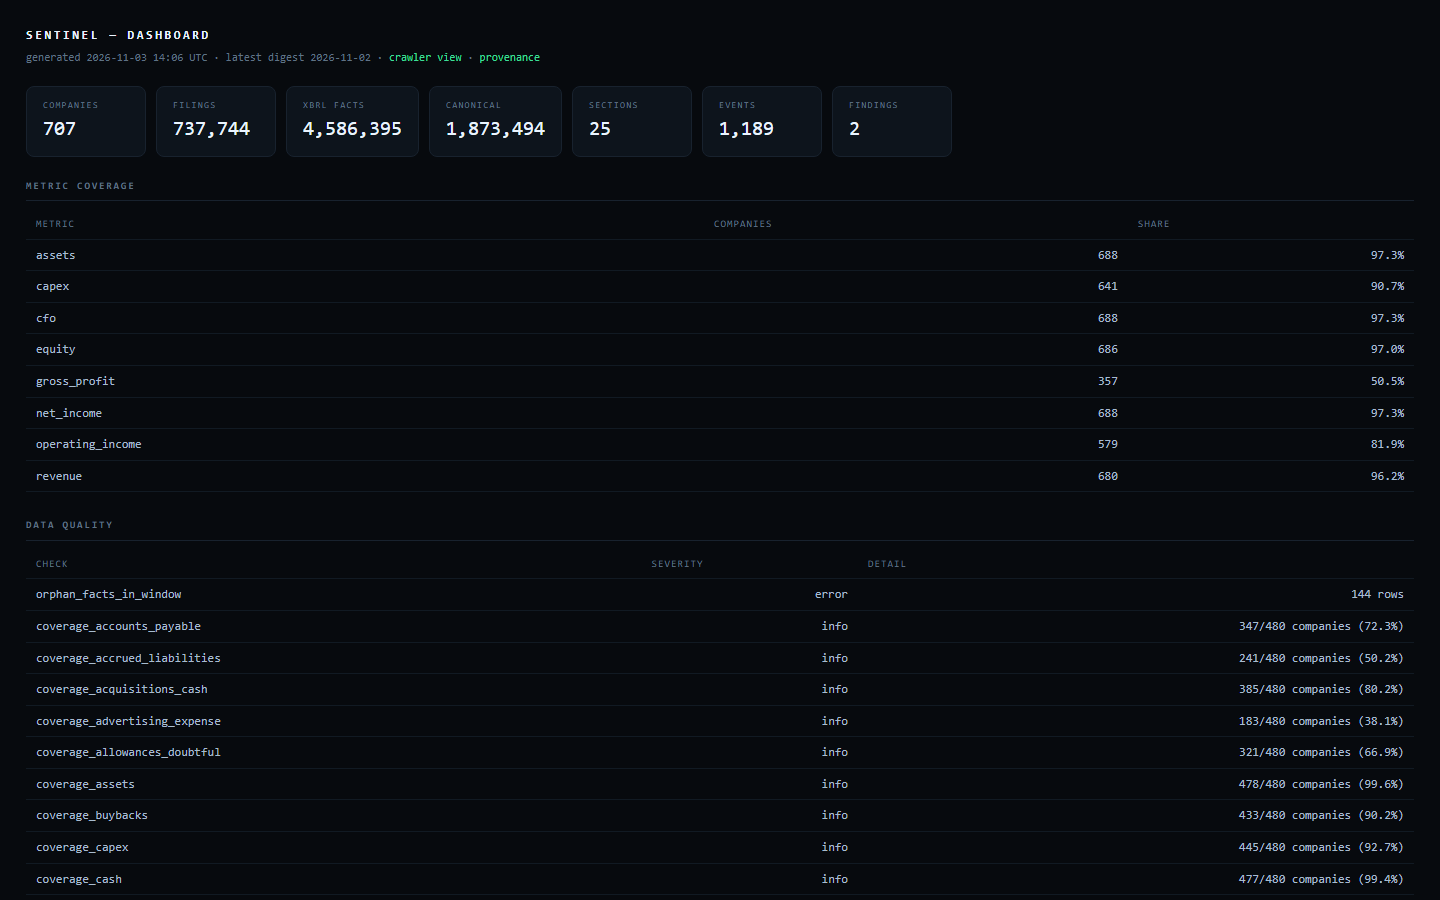
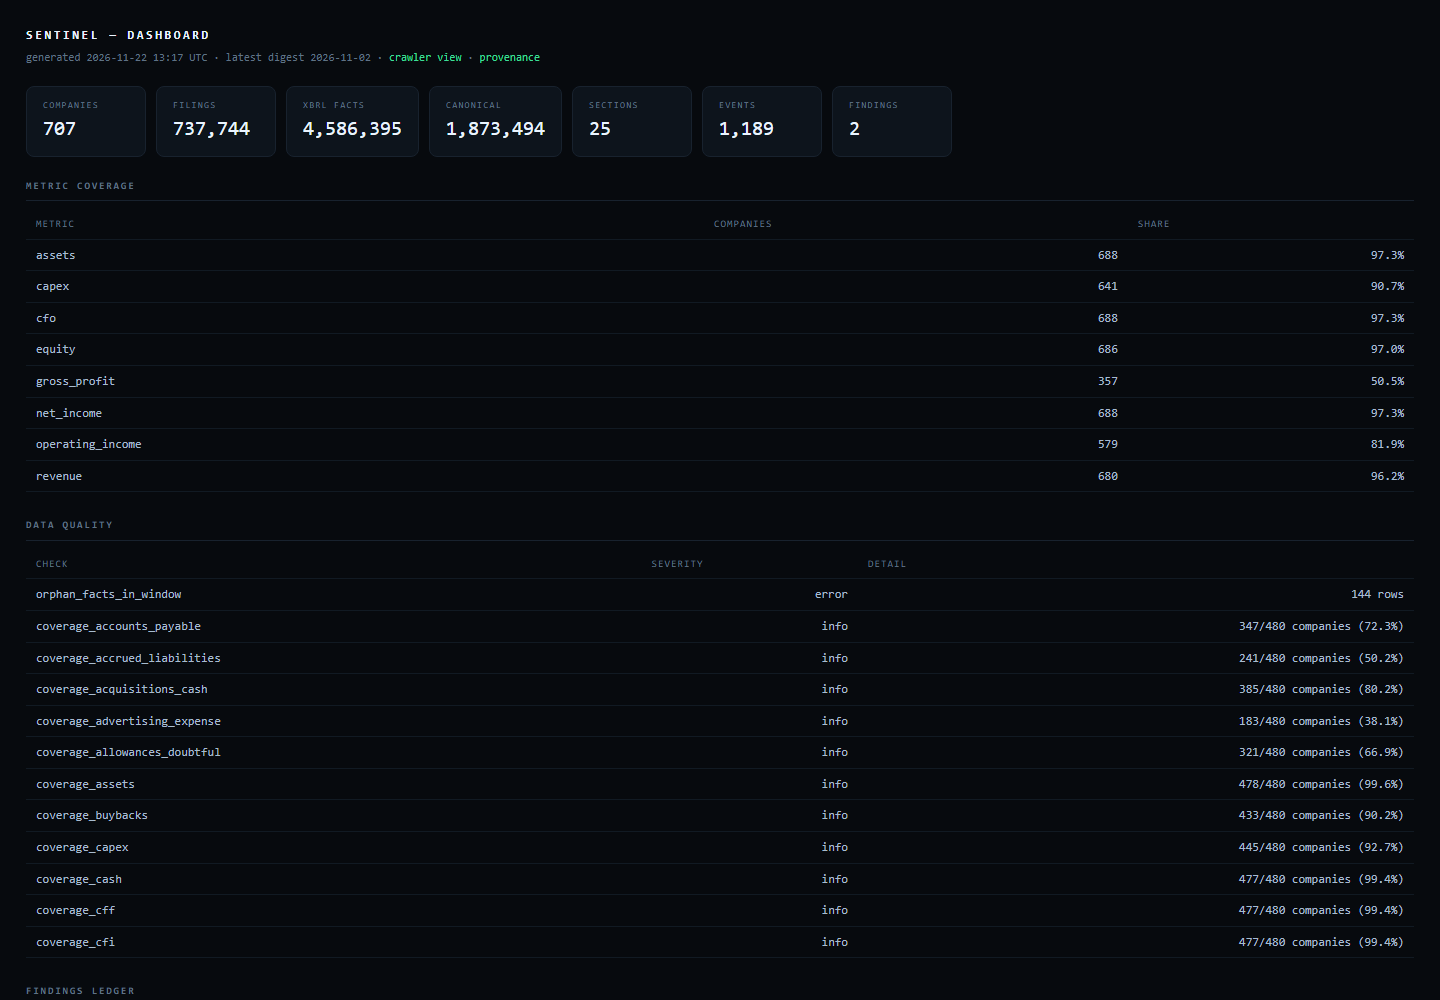
docs: crawl console section with the verified run; refresh page images

diff --git a/viz/dashboard.html b/viz/dashboard.html
@@ -22,7 +22,7 @@
  footer{color:var(--dim);font-size:10px;border-top:1px solid var(--line);padding-top:12px}
 </style></head><body>
 <h1>SENTINEL — dashboard</h1>
-<div class="sub">generated 2026-11-03 14:06 UTC · latest digest 2026-11-02 ·
+<div class="sub">generated 2026-11-22 13:17 UTC · latest digest 2026-11-02 ·
  <a href="/crawler.html">crawler view</a> · <a href="/provenance.html">provenance</a></div>
 <div class="cards"><div class="card"><div class="k">companies</div><div class="v">707</div></div><div class="card"><div class="k">filings</div><div class="v">737,744</div></div><div class="card"><div class="k">xbrl facts</div><div class="v">4,586,395</div></div><div class="card"><div class="k">canonical</div><div class="v">1,873,494</div></div><div class="card"><div class="k">sections</div><div class="v">25</div></div><div class="card"><div class="k">events</div><div class="v">1,189</div></div><div class="card"><div class="k">findings</div><div class="v">2</div></div></div>
 <section><h2>Metric coverage</h2><table><thead><tr><th>metric</th><th>companies</th><th>share</th></tr></thead><tbody><tr><td>assets</td><td class="n">688</td><td class="n">97.3%</td></tr><tr><td>capex</td><td class="n">641</td><td class="n">90.7%</td></tr><tr><td>cfo</td><td class="n">688</td><td class="n">97.3%</td></tr><tr><td>equity</td><td class="n">686</td><td class="n">97.0%</td></tr><tr><td>gross_profit</td><td class="n">357</td><td class="n">50.5%</td></tr><tr><td>net_income</td><td class="n">688</td><td class="n">97.3%</td></tr><tr><td>operating_income</td><td class="n">579</td><td class="n">81.9%</td></tr><tr><td>revenue</td><td class="n">680</td><td class="n">96.2%</td></tr></tbody></table></section>

diff --git a/src/sentinel/web/app.py b/src/sentinel/web/app.py
@@ -40,9 +40,13 @@ def create_app(con, paths):
     from contextlib import contextmanager
 
     @contextmanager
-    def db_session():
+    def db_session(write: bool = False):
+        # Reads use the read-only factory so the server never holds the write lock.
+        # A write needs a read-write connection, which cannot coexist with a reader, so
+        # it is opened only for the statement and may fail with contention - which the
+        # POST handler turns into a 503 rather than a 500.
         if callable(con):
-            connection = con()
+            connection = db.connect(paths.db) if write else con()
             try:
                 yield connection
             finally:
@@ -136,7 +140,7 @@ def create_app(con, paths):
             raise HTTPException(400, f"at most {jobs.MAX_URLS} URLs per job")
 
         try:
-            with db_session() as conn:
+            with db_session(write=True) as conn:
                 job_id = jobs.create(conn, kind="url", target=request.label or urls[0], total=len(urls))
         except Exception as exc:
             # DuckDB permits one writer. A crawl job holding it must surface as "retry",
